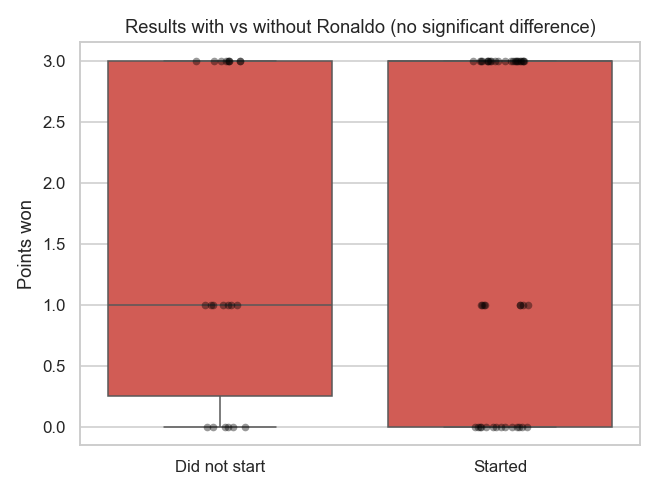
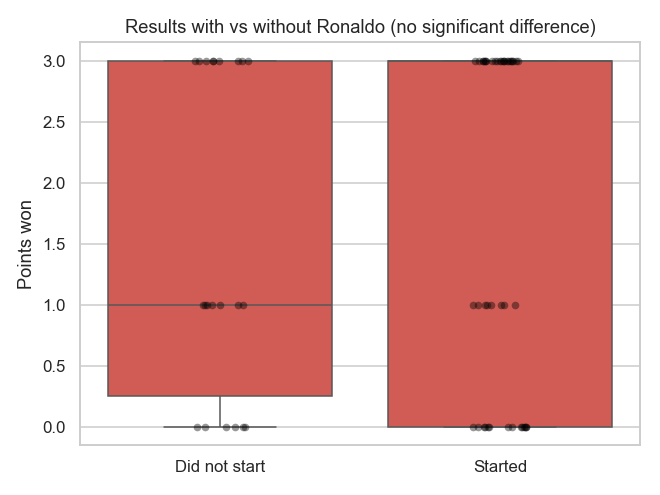
Add requirements.txt, write results to analysis_output.txt, detailed Run Locally steps

diff --git a/ronaldo_analysis.py b/ronaldo_analysis.py
@@ -12,6 +12,7 @@ Two levels of analysis:
                          attacking work, than comparable forwards? (the mechanism)
   PART C  Summary table + multiple-testing note.
 """
+import sys
 import numpy as np, pandas as pd
 from scipy import stats
 import statsmodels.formula.api as smf
@@ -19,6 +20,25 @@ import matplotlib
 matplotlib.use("Agg")
 import matplotlib.pyplot as plt
 import seaborn as sns
+
+
+class _Tee:
+    """Send console output to both the terminal and a log file."""
+    def __init__(self, *streams):
+        self._streams = streams
+
+    def write(self, text):
+        for s in self._streams:
+            s.write(text)
+
+    def flush(self):
+        for s in self._streams:
+            s.flush()
+
+
+OUTPUT_LOG = "analysis_output.txt"
+_logfile = open(OUTPUT_LOG, "w")
+sys.stdout = _Tee(sys.__stdout__, _logfile)
 
 sns.set_theme(style="whitegrid")
 RED, GREY = "#E64A40", "#9aa0a6"
@@ -189,5 +209,10 @@ ax.set_title("The trade-off: Ronaldo stays high, does little defending")
 ax.legend()
 save(fig, "py_tradeoff.png")
 
-print("\nFigures saved: py_points.png, py_recoveries.png, py_tradeoff.png")
-print("Summary table: results_summary.csv")
+print("\nOutputs written:")
+print("  Figures:       py_points.png, py_recoveries.png, py_tradeoff.png")
+print("  Summary table: results_summary.csv")
+print(f"  Full run log:  {OUTPUT_LOG}")
+
+sys.stdout = sys.__stdout__
+_logfile.close()

diff --git a/README.md b/README.md
@@ -74,28 +74,62 @@ lose" claim (points p = 0.63; win rate p = 0.45; both vanish under controls).
 |------|---------|
 | `finalize.py` | Build the match-level dataset (manager, rest, opponent strength, validation) |
 | `extract_players.py` | Build the forward-level (per-90) dataset |
-| `ronaldo_analysis.py` | The analysis (team + player level) and figures |
+| `ronaldo_analysis.py` | The analysis (team + player level); writes results + figures |
 | `results_summary.csv` | All 15 tests: p-values, effect sizes, Bonferroni flags |
+| `analysis_output.txt` | Full test-by-test run log (generated by the analysis) |
 | `py_*.png` | Figures |
+| `requirements.txt` | Pinned Python dependencies |
+| `mock_*.csv` | Fictional sample rows documenting the input schemas |
 | `raw/` | football-data.co.uk Premier League CSVs |
 
 *The provider-sourced match/player datasets are not committed (see Data sources). The
-analysis code, results, and figures here document the methodology and findings.*
+analysis code, results, figures, and run log here document the methodology and findings.*
 
-## Running it locally
+## Run Locally
 
-`ronaldo_analysis.py` reads two datasets that are **not included** (they're derived from
-FotMob — see Data sources): `ronaldo_stint_dataset.csv` (match level) and
-`forward_match_stats.csv` (forward-per-90 level). To document the exact expected format,
-this repo ships two mock files with fictional data and identical column names:
+**1. Clone the repo**
+```bash
+git clone https://github.com/Van-Avanesian/ronaldo-united-analysis.git
+cd ronaldo-united-analysis
+```
 
-| Mock file | Replace with |
-|-----------|--------------|
-| `mock_ronaldo_stint_dataset.csv` | your own `ronaldo_stint_dataset.csv` |
-| `mock_forward_match_stats.csv` | your own `forward_match_stats.csv` |
+**2. Install dependencies** (Python 3.9+)
+```bash
+pip3 install -r requirements.txt
+```
 
-To run the analysis locally, supply your own formatted statistics datasets matching these
-column schemas (rename the mock files, or point the script at your data).
+**3. Provide the two input datasets**
+
+`ronaldo_analysis.py` reads two CSVs that are **not included** (derived from FotMob — see
+[Data sources](#data-sources)):
+
+| Dataset | Grain | Rows |
+|---------|-------|------|
+| `ronaldo_stint_dataset.csv` | one row per match | 67 |
+| `forward_match_stats.csv` | one row per forward per match | 378 |
+
+The repo ships mock files documenting the **exact expected columns**. Copy them to the real
+filenames to confirm the pipeline runs, then swap in your own data in the same format:
+```bash
+cp mock_ronaldo_stint_dataset.csv ronaldo_stint_dataset.csv
+cp mock_forward_match_stats.csv   forward_match_stats.csv
+```
+> The mock files hold 2 fictional rows for **format reference only** — enough to verify the
+> schema and that the script runs, not to reproduce the statistics. Real results need the
+> full datasets.
+
+**4. Run the analysis**
+```bash
+python3 ronaldo_analysis.py
+```
+
+**5. Outputs** — the script writes:
+- `analysis_output.txt` — full test-by-test results
+- `results_summary.csv` — all 15 tests with p-values, effect sizes, Bonferroni flags
+- `py_points.png`, `py_recoveries.png`, `py_tradeoff.png` — figures
+
+> These output files are already committed, so you can review every result **without running
+> anything** — just open `analysis_output.txt`.
 
 ## Limitations
 